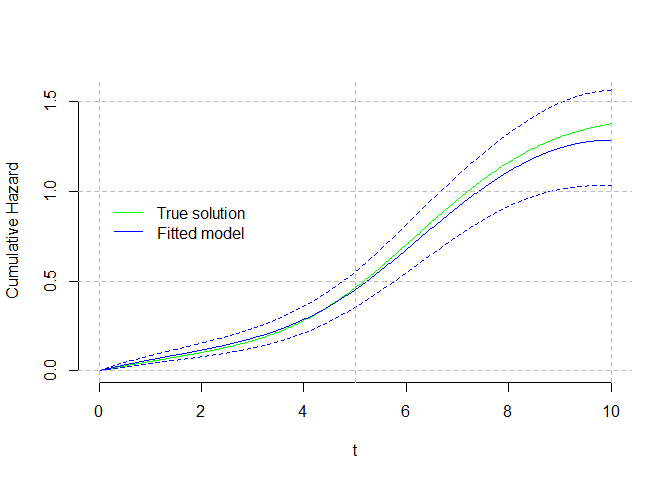
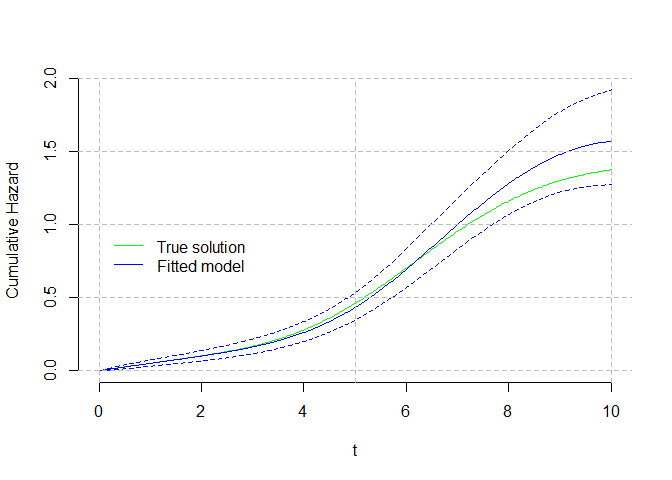
Remove dependency on pracma package

diff --git a/README.md b/README.md
@@ -67,31 +67,29 @@ hist( SimDat$time[ which(SimDat$status==0)], main="", xlab="t", breaks="Freedman
 ### Hazard regression
 
 ``` r
-## Fit a cubic B-spline regression model using the true knots
-   # yd0= read.csv("C:/local/CORU/Survival Hazard and KM/Philip Rosenberg papers and code/matlab v1 PR/Dataset1.csv", header = F, col.names = c("time","status") )
-   # SimDat = yd0
+## Fit a cubic B-spline regression searching for the best number of knots
    timeout = seq( 0, 10, length.out = 501 )
-   # Result = hspcore(yd=SimDat, ORDER=4, knots=c(0,1,3,6,10), time=timeout, Bootstrap = 120, verbose=FALSE )   
    Result = hspcore(yd=SimDat, ORDER=4, Exterior.knots = c(0,10), Interior.knots=NULL, SelectBestKnots = TRUE, time=timeout, Bootstrap = 200, verbose=FALSE )  
 #> [1] "Automatic search for K the number of interior knots of the B-spline hazard function"
-#> [1] "K=0, m2loglik=293.04, DOF=4, AICc=301.17, knots= 0 10"
-#> [1] "K=1, m2loglik=290.52, DOF=5, AICc=300.73, knots= 0 4.8 10"
-#> [1] "K=2, m2loglik=287.94, DOF=6, AICc=300.23, knots= 0 3.8 5.7 10"
-#> [1] "K=3, m2loglik=286.12, DOF=7, AICc=300.5, knots= 0 3.1 4.8 6.4 10"
-#> [1] "K=4, m2loglik=285.62, DOF=8, AICc=302.12, knots= 0 2.5 4.2 5.5 6.7 10"
-#> [1] "K=5, m2loglik=285.12, DOF=9, AICc=303.74, knots= 0 2.1 3.8 4.8 5.7 6.9 10"
-#> [1] "K=6, m2loglik=284.82, DOF=10, AICc=305.58, knots= 0 1.6 3.6 4.3 5.2 6.1 7.3 10"
-#> [1] "K=7, m2loglik=284.56, DOF=11, AICc=307.47, knots= 0 1.4 3.1 4 4.8 5.6 6.4 7.4 10"
-#> [1] "K=8, m2loglik=284.59, DOF=12, AICc=309.68, knots= 0 1.2 2.8 3.8 4.6 5.1 5.7 6.6 7.6 10"
-#> [1] "K=9, m2loglik=284.46, DOF=13, AICc=311.72, knots= 0 1.2 2.5 3.7 4.2 4.8 5.5 5.9 6.7 7.8 10"
-#> [1] "K=10, m2loglik=283.64, DOF=14, AICc=313.1, knots= 0 1 2.4 3.4 4 4.7 5.1 5.6 6.2 6.8 7.8 10"
-#> [1] "K=11, m2loglik=284.06, DOF=15, AICc=315.74, knots= 0 0.9 2.1 3.1 3.8 4.3 4.8 5.3 5.7 6.4 6.9 7.8 10"
-#> [1] "K=12, m2loglik=283.47, DOF=16, AICc=317.39, knots= 0 0.8 1.7 3 3.7 4.1 4.7 5.1 5.5 5.9 6.5 7.1 7.9 10"
-#> [1] "K=13, m2loglik=278.61, DOF=17, AICc=314.77, knots= 0 0.7 1.6 2.6 3.6 3.9 4.3 4.8 5.2 5.7 6.1 6.7 7.3 8 10"
-#> [1] "K=14, m2loglik=282.34, DOF=18, AICc=320.77, knots= 0 0.7 1.4 2.5 3.3 3.8 4.2 4.7 5 5.5 5.7 6.2 6.7 7.4 8 10"
+#> [1] "K=0, m2loglik=245.13, DOF=4, AICc=253.26, knots= 0 10"
+#> [1] "K=1, m2loglik=237.52, DOF=5, AICc=247.72, knots= 0 5.2 10"
+#> [1] "K=2, m2loglik=234.52, DOF=6, AICc=246.81, knots= 0 4.2 6.2 10"
+#> [1] "K=3, m2loglik=233.71, DOF=7, AICc=248.09, knots= 0 3.6 5.2 6.7 10"
+#> [1] "K=4, m2loglik=231.09, DOF=8, AICc=247.58, knots= 0 3.1 4.6 5.7 6.9 10"
+#> [1] "K=5, m2loglik=230.39, DOF=9, AICc=249.01, knots= 0 2.5 4.2 5.2 6.2 7.1 10"
+#> [1] "K=6, m2loglik=230.33, DOF=10, AICc=251.08, knots= 0 2.1 3.8 4.7 5.5 6.5 7.4 10"
+#> [1] "K=7, m2loglik=229.83, DOF=11, AICc=252.75, knots= 0 1.8 3.6 4.4 5.2 5.9 6.7 7.5 10"
+#> [1] "K=8, m2loglik=228.1, DOF=12, AICc=253.19, knots= 0 1.8 3.4 4.2 4.8 5.5 6.2 6.9 7.6 10"
+#> [1] "K=9, m2loglik=228.89, DOF=13, AICc=256.16, knots= 0 1.4 3.1 3.9 4.6 5.2 5.7 6.4 6.9 7.7 10"
+#> [1] "K=10, m2loglik=227.26, DOF=14, AICc=256.73, knots= 0 1.3 2.9 3.7 4.3 4.8 5.5 5.9 6.6 7 7.9 10"
+#> [1] "K=11, m2loglik=225.21, DOF=15, AICc=256.9, knots= 0 1.2 2.5 3.6 4.2 4.6 5.2 5.5 6.2 6.7 7.1 8 10"
+#> [1] "K=12, m2loglik=225.21, DOF=16, AICc=259.13, knots= 0 1.2 2.2 3.5 4 4.4 4.9 5.4 5.8 6.4 6.8 7.3 8 10"
+#> [1] "K=13, m2loglik=221.54, DOF=17, AICc=257.7, knots= 0 1 2.1 3.3 3.8 4.3 4.7 5.2 5.5 6 6.5 6.9 7.4 8.1 10"
+#> [1] "K=14, m2loglik=221.74, DOF=18, AICc=260.17, knots= 0 0.8 2 3.1 3.7 4.2 4.6 4.9 5.4 5.7 6.2 6.6 6.9 7.4 8.1 10"
 #> [1] "SEARCH RESULT: We use 2 interior B-spline knots"
-#> [1] "K= 2 DOF= 6 knots= 0 3.8 5.7 10"
+#> [1] "K= 2 DOF= 6 knots= 0 4.2 6.2 10"
 #> [1] "Variance estimation using bootstrap"
+#> Warning in log(aux): NaNs produced
 ```
 
 <img src="man/figures/README-result-figures-side-1.png" width="50%" /><img src="man/figures/README-result-figures-side-2.png" width="50%" /><img src="man/figures/README-result-figures-side-3.png" width="50%" /><img src="man/figures/README-result-figures-side-4.png" width="50%" />
